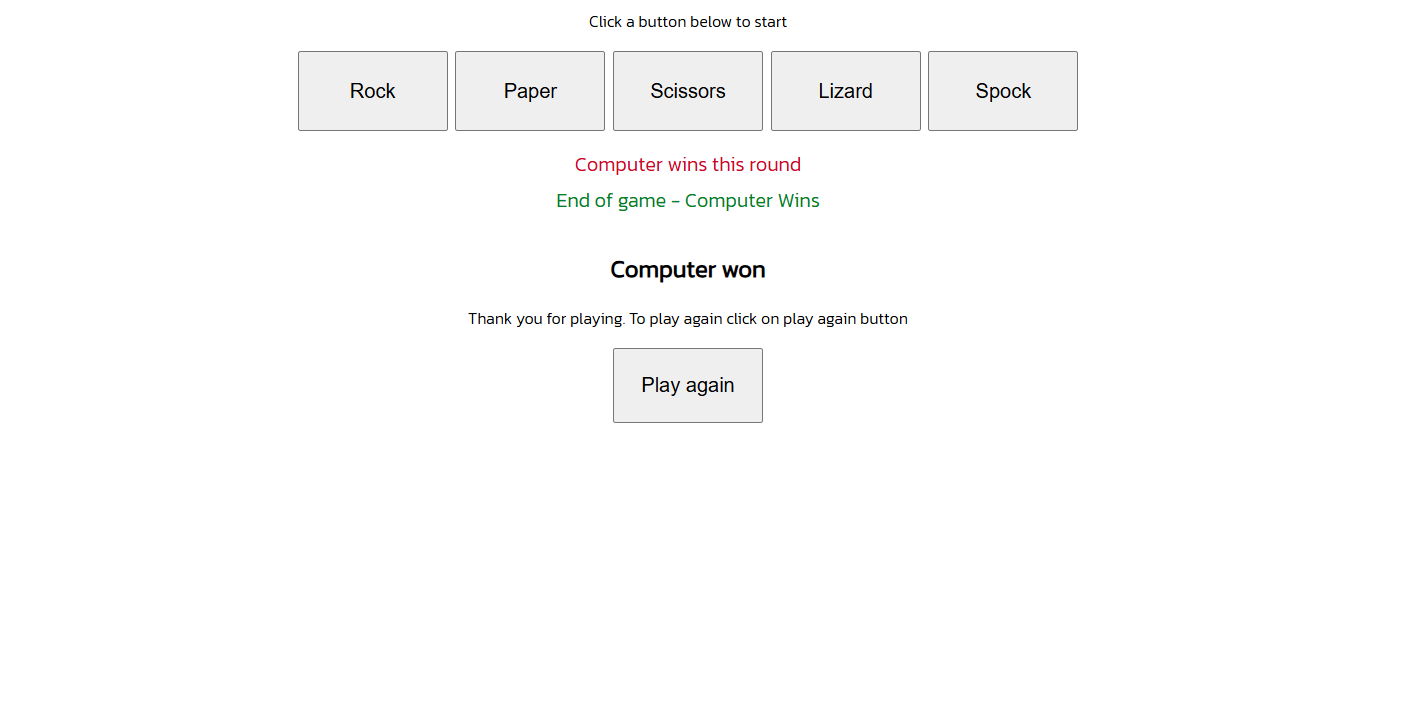
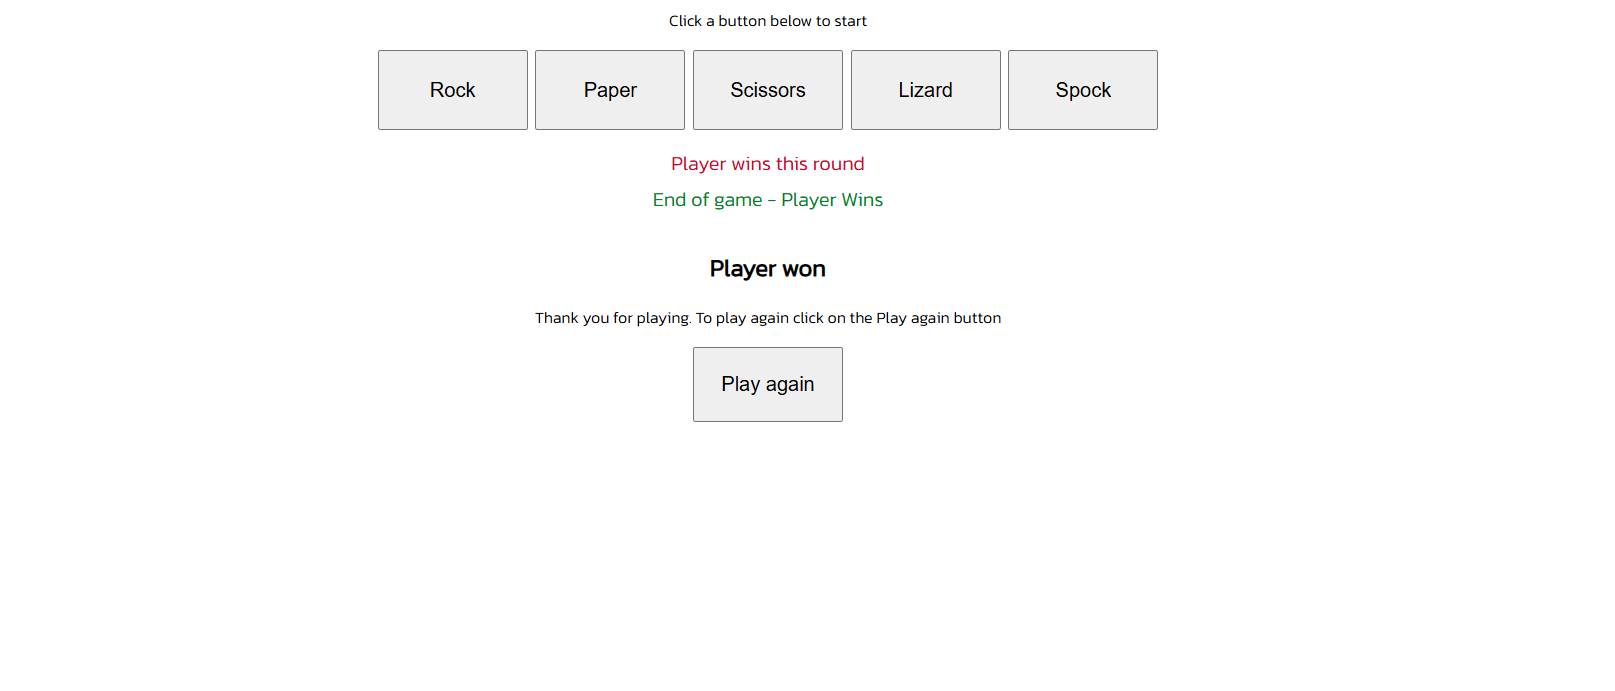
For validations

diff --git a/assets/js/script.js b/assets/js/script.js
@@ -1,5 +1,5 @@
 /**
- * Dcelared variables
+ * Variables
  */
 let buttons = document.getElementsByClassName("control");
 let playerImage = document.getElementById("player-image");
@@ -17,10 +17,14 @@ let game = `<div class="player">
                 <img id="computer-image" src="assets/images/rpsls.png" alt="Rock Paper Scissors Lizard Spock">
             </div>`;
 
+/**
+ * Get player choice function 
+ */
 function getPlayerChoice(event) {
     let playerChoice = event.target.getAttribute("data-choice");
     playGame(playerChoice);
     }
+    
 /**
  * Main game function 
  */
@@ -52,8 +56,9 @@ function playGame(playerChoice) {
         endGameMenu(endOfGame);
     }
 }
+
 /**
- * functions to add and remove event listeners to the five RPSLS buttons
+ * Functions to add and remove event listeners to the five RPSLS buttons
  */
 function addListenersToControlButtons() {
     for (let button of buttons) {
@@ -66,8 +71,9 @@ function removeListenersToControlButtons() {
         button.removeEventListener("click", getPlayerChoice);
     }
 }
+
 /**
- * function to display scores and images
+ * Function to display scores and images
  */
 function startAgain() {
     removeListenerToEndGameButton();
@@ -79,22 +85,7 @@ function startAgain() {
     computerImage = document.getElementById("computer-image");
     addListenersToControlButtons();
 }
-/**
- * Function to state who won and to give the option to play again
- */
-function endGameMenu(endOfGame) {
-    let container = document.getElementById("game-container");
-    let heading; 
-    if (endOfGame == "end-player") {
-        heading = `<h2>Player won</h2>`;
-    } else {
-        heading = `<h2>Computer won</h2>`;
-    }
-    let message = `<p>Thank you for playing. To play again click on play again button</p>`;
-    let button = `<button id="play-again">Play again</button>`;
-    container.innerHTML = heading + message + button;
-    addListenerToEndGameButton();
-    }
+
 /**
  * Function to set the conditions of the potential outcomes
  */
@@ -142,6 +133,7 @@ function checkWinner(computerChoice, playerChoice) {
     } else if (playerChoice == "spock" && computerChoice == "lizard")
         return "computer";
 }
+
 /**
  *  Fucntion to notify who won each round
  */
@@ -157,6 +149,7 @@ function updateMessage(result) {
     let messagesDiv = document.getElementById("messages");
     messagesDiv.innerHTML = message;
 }
+
 /**
  *  Function to incrament the scores
  */
@@ -187,8 +180,9 @@ function checkEndOfGame() {
     } 
     return "next-round";
 }
+
 /**
- * Functions to add and remove event listeners to the play again button
+ * Functions to add and remove event listeners to the Play again button
  */
 function addListenerToEndGameButton() {
     let button = document.getElementById("play-again");
@@ -199,6 +193,23 @@ function removeListenerToEndGameButton() {
     let button = document.getElementById("play-again");
     button.removeEventListener("click", startAgain);
 }
+
+/**
+ * Function to state who won and to give the option to play again
+ */
+function endGameMenu(endOfGame) {
+    let container = document.getElementById("game-container");
+    let heading; 
+    if (endOfGame == "end-player") {
+        heading = `<h2>Player won</h2>`;
+    } else {
+        heading = `<h2>Computer won</h2>`;
+    }
+    let message = `<p>Thank you for playing. To play again click on the Play again button</p>`;
+    let button = `<button id="play-again">Play again</button>`;
+    container.innerHTML = heading + message + button;
+    addListenerToEndGameButton();
+    }
 
 /**
  * Function to announce to either continue playing or when the player or the computer heas reached 10 points and won
@@ -218,13 +229,11 @@ function updateEndMessage(endOfGame) {
 
 addListenersToControlButtons();
 
-// Get the modal
+/** 
+ * Modal variables
+ */
 let modal = document.getElementById("myModal");
-
-// Get the button that opens the modal
 let btn = document.getElementById("myBtn");
-
-// Get the <span> element that closes the modal
 let span = document.getElementsByClassName("close")[0];
 
 btn.addEventListener("click", openInstructionsModal);
@@ -239,7 +248,6 @@ function openInstructionsModal() {
 }
 
 modal.addEventListener("click", closeInstructionsModal);
-span.addEventListener("click", closeInstructionsModal);
 
 /**
  * Funtion to close the Modal

diff --git a/index.html b/index.html
@@ -21,7 +21,7 @@
         <h1 id="game-title">Rock, Paper, Scissors, Lizard, Spock</h1>
     </header>
     <section class="game-area">
-        <!--The five buttons-->
+        <!--The five RPSLS buttons-->
         <div>
             <p>Click a button below to start</p>
             <button aria-label="Rock" data-choice="0" class="control">Rock</button>
@@ -47,7 +47,7 @@
         </div>
     </section>
     <footer>
-        <!-- Trigger/Open The Modal -->
+        <!-- Button to open The Modal -->
         <button id="myBtn">Click here for instructions</button>
         <!-- The Modal -->
         <div id="myModal" class="modal">

diff --git a/assets/css/style.css b/assets/css/style.css
@@ -348,5 +348,4 @@ footer {
         height: 80px;
         font-size: 20px;
 }
-
   }
